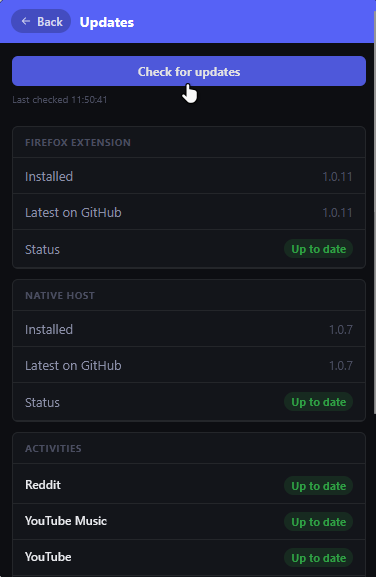
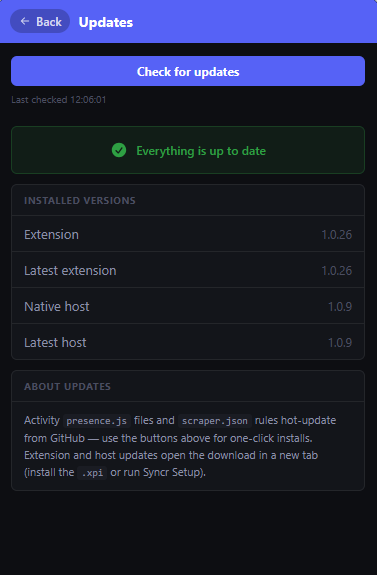
Gallery: replace updater screenshot, remove from carousel

diff --git a/app.js b/app.js
@@ -371,7 +371,6 @@
     'assets/shots/discord-3.png',
     'assets/shots/discord-4.png',
     'assets/shots/discord-5.png',
-    'assets/shots/popup-autoupdate.png',
   ];
   var shotIdx = 0;
   var shotMain = document.getElementById('shotMain');

diff --git a/index.html b/index.html
@@ -167,7 +167,6 @@
           <button class="shot-dot" data-i="2" aria-label="Screenshot 3"></button>
           <button class="shot-dot" data-i="3" aria-label="Screenshot 4"></button>
           <button class="shot-dot" data-i="4" aria-label="Screenshot 5"></button>
-          <button class="shot-dot" data-i="5" aria-label="Screenshot 6"></button>
         </div>
       </div>
     </div>